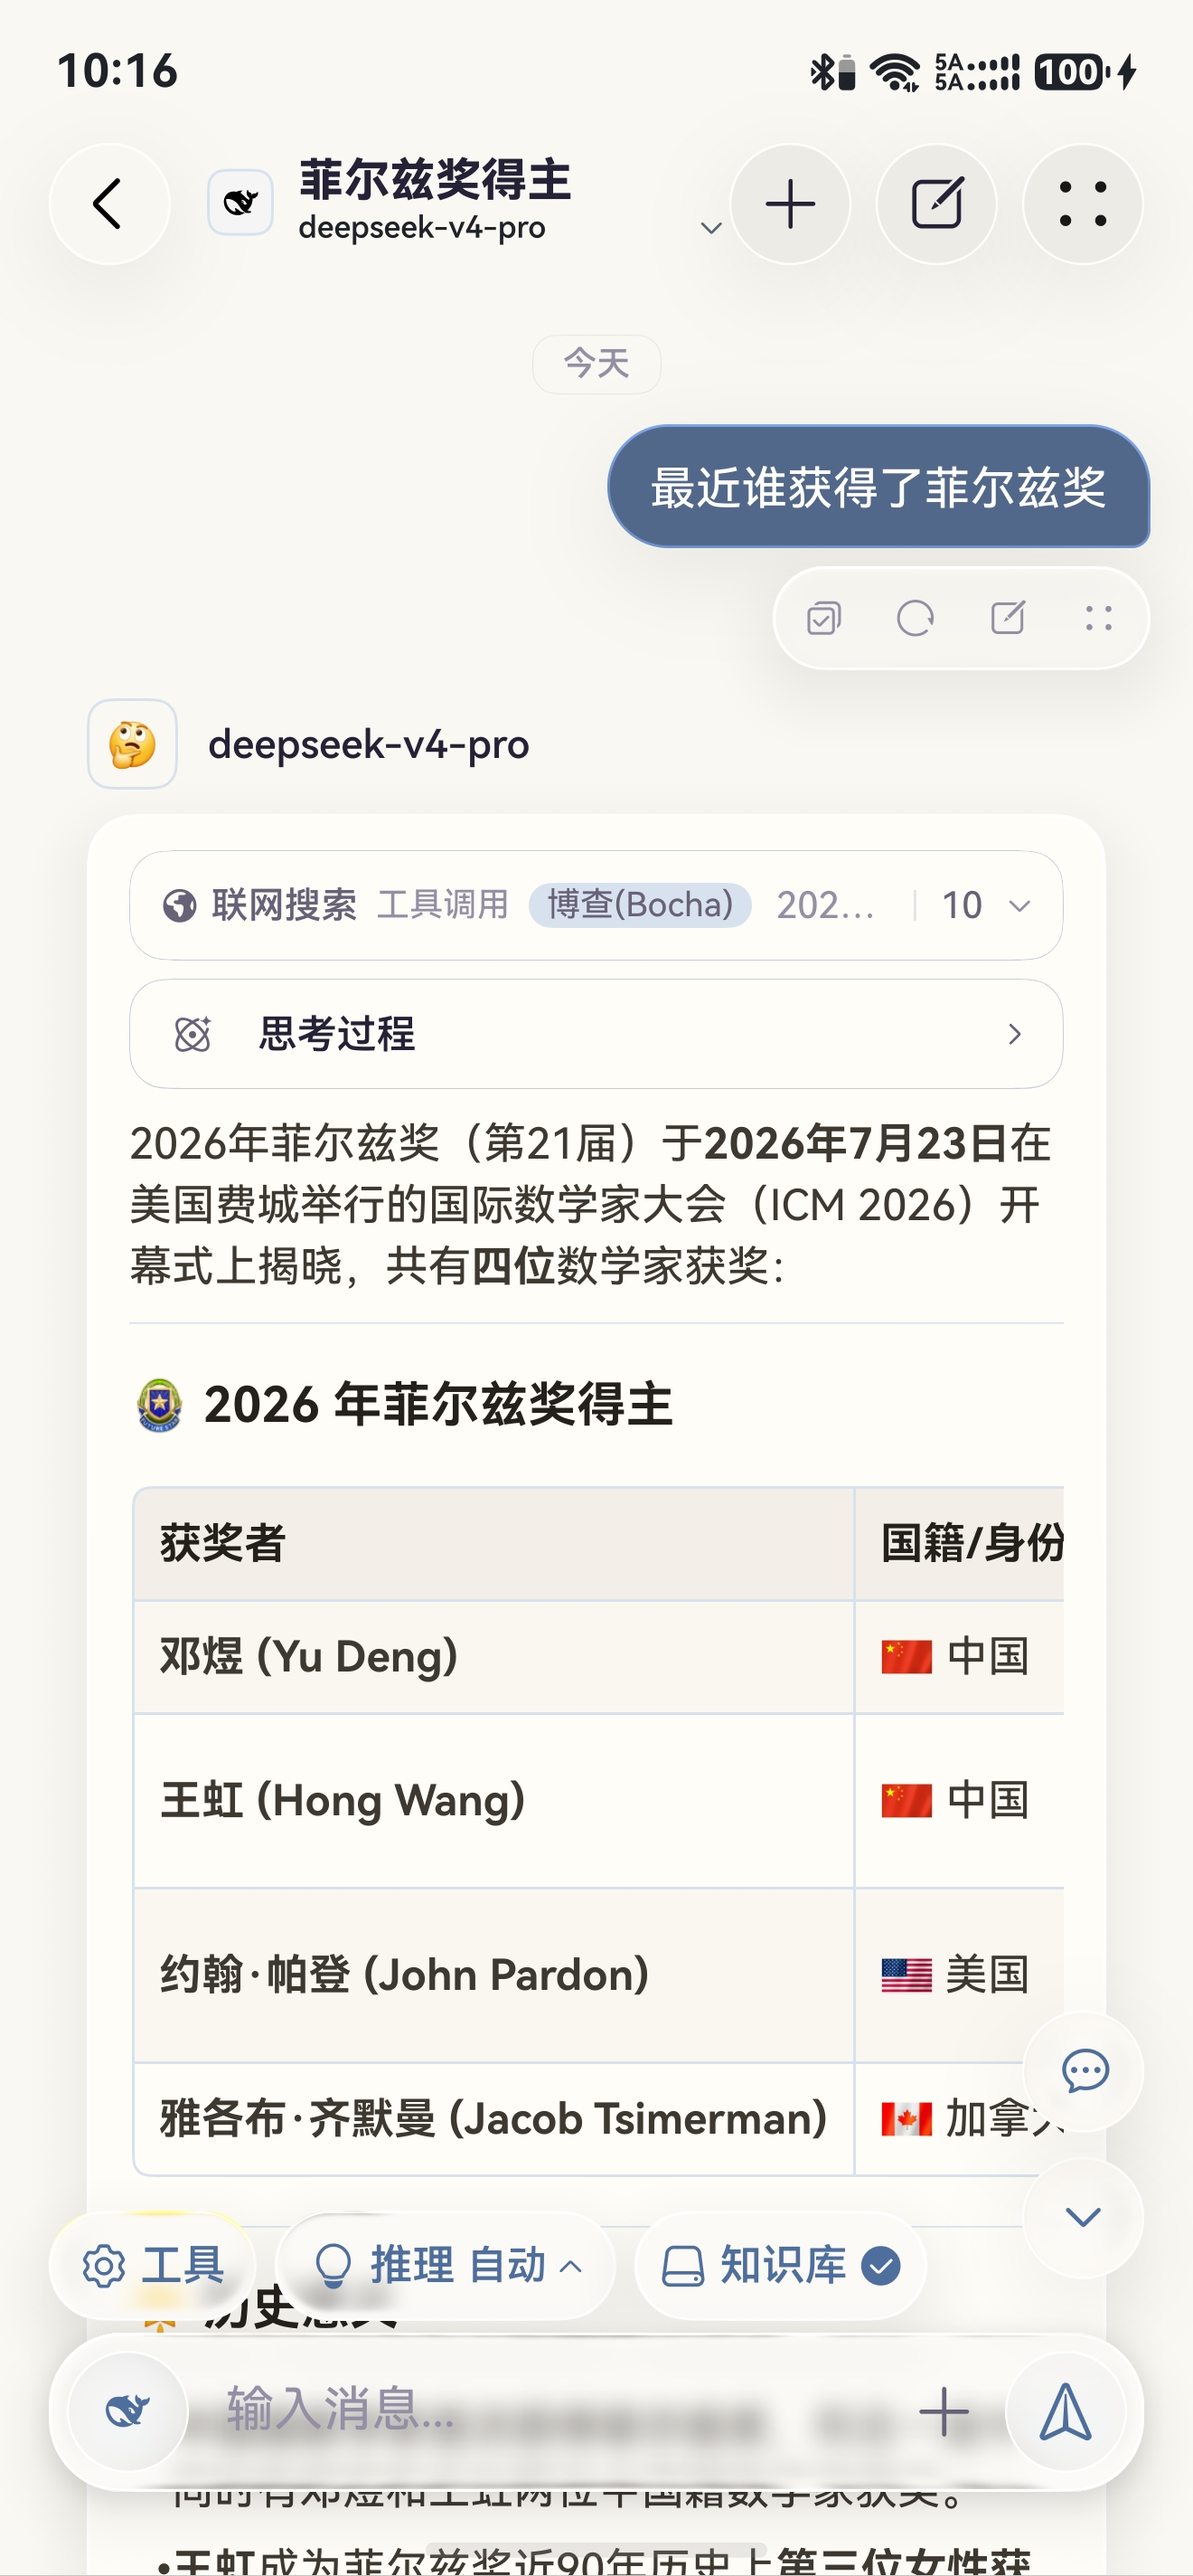
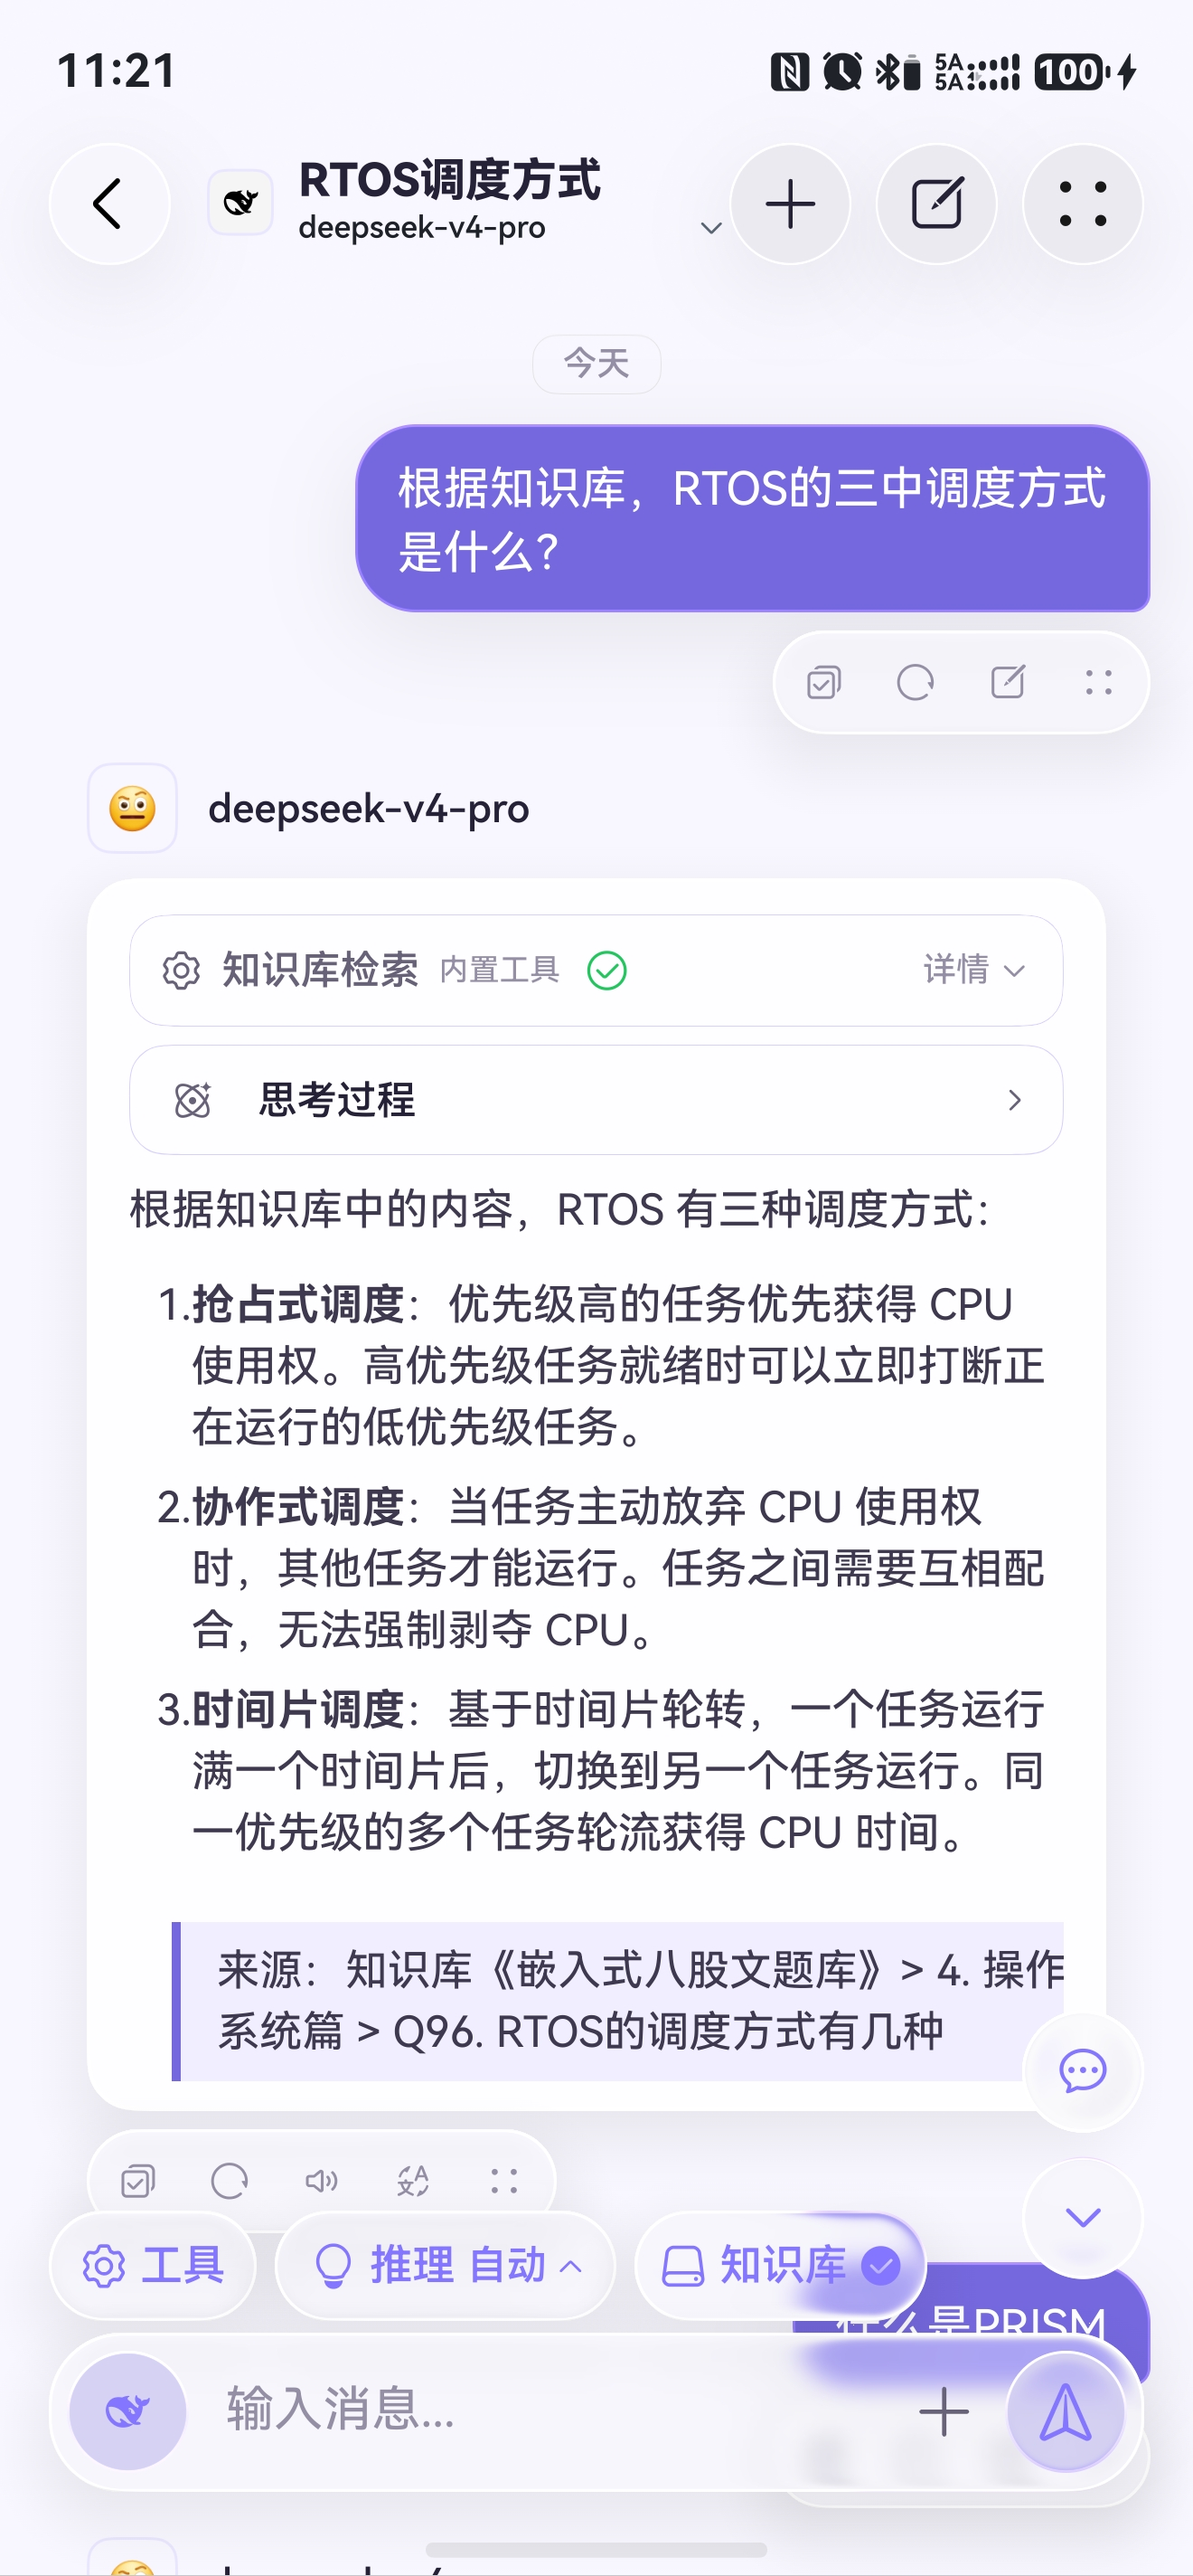
doc: update knowledge base screenshot.

diff --git a/README.md b/README.md
@@ -38,6 +38,7 @@ These screenshots reflect the current HarmonyOS 7 (API 26.0.0) build:
   <tr>
     <td align="center"><img src="docs/screenshots/IMAGE1.jpg" width="200" /><br/><sub>Chat</sub></td>
     <td align="center"><img src="docs/screenshots/IMAGE2.jpg" width="200" /><br/><sub>Conversations</sub></td>
+    <td align="center"><img src="docs/screenshots/IMAGE3.jpg" width="200" /><br/><sub>Knowledge Base</sub></td>
   </tr>
 </table>
 

diff --git a/README.zh-CN.md b/README.zh-CN.md
@@ -38,6 +38,7 @@
   <tr>
     <td align="center"><img src="docs/screenshots/IMAGE1.jpg" width="200" /><br/><sub>对话</sub></td>
     <td align="center"><img src="docs/screenshots/IMAGE2.jpg" width="200" /><br/><sub>会话</sub></td>
+    <td align="center"><img src="docs/screenshots/IMAGE3.jpg" width="200" /><br/><sub>知识库</sub></td>
   </tr>
 </table>
 
